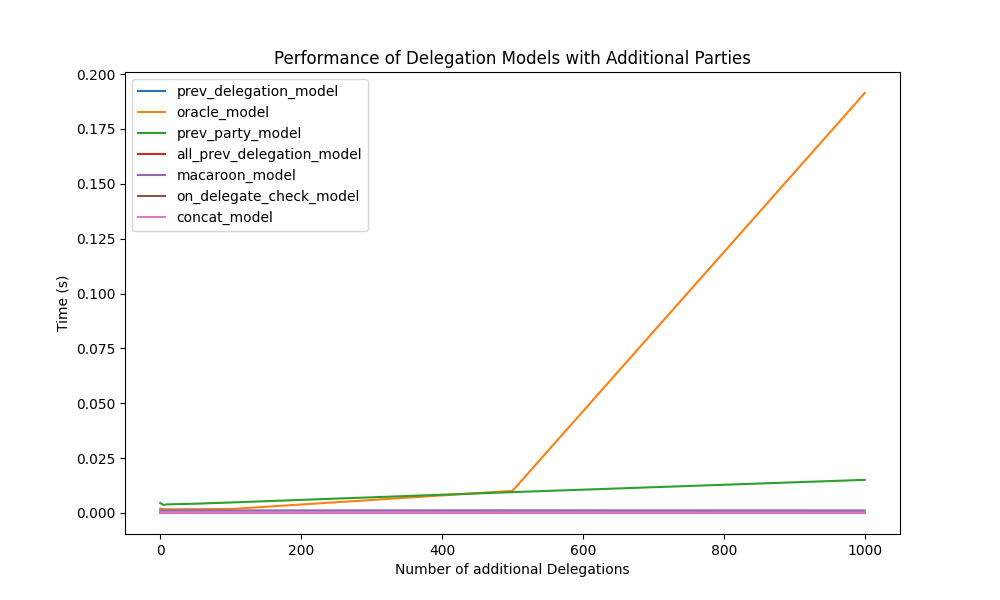
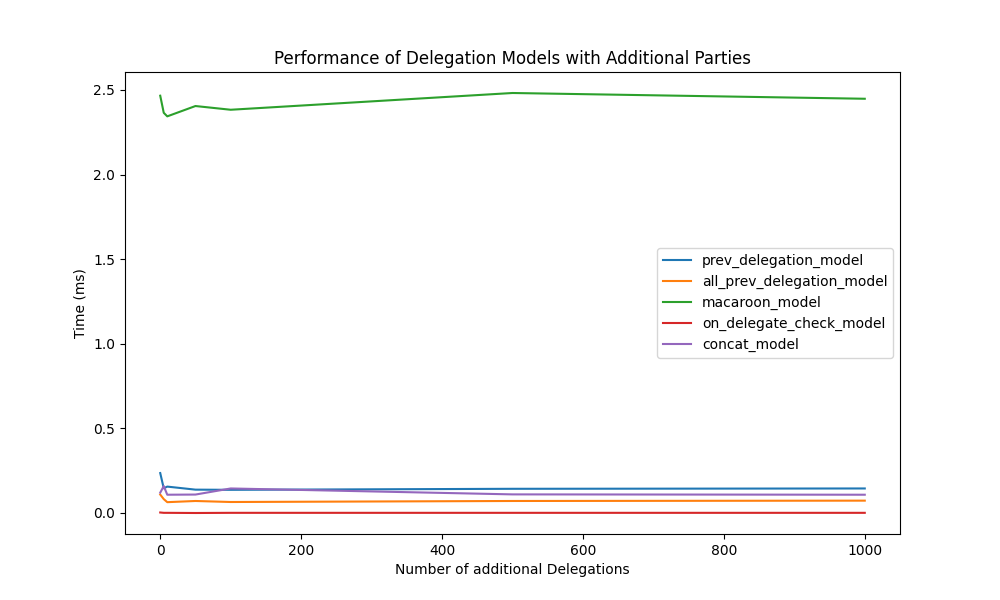
Small updates

diff --git a/src/gen_performance_plot.py b/src/gen_performance_plot.py
@@ -15,7 +15,7 @@ def load_performance(report_path):
         report = json.load(f)["performance"]
 
     keys = list(map(int, report.keys()))
-    values = list(map(float, report.values()))
+    values = list(map(lambda x: x * 1000, map(float, report.values())))
     return keys, values
 
 
@@ -24,7 +24,7 @@ def load_performance_additional_parties(report_path):
         report = json.load(f)["performance_additional_parties"]
 
     keys = list(map(int, report.keys()))
-    values = list(map(float, report.values()))
+    values = list(map(lambda x: x * 1000, map(float, report.values())))
     return keys, values
 
 
@@ -33,7 +33,7 @@ def load_performance_related_additional_parties(report_path):
         report = json.load(f)["performance_related_additional_parties"]
 
     keys = list(map(int, report.keys()))
-    values = list(map(float, report.values()))
+    values = list(map(lambda x: x * 1000, map(float, report.values())))  # convert to milliseconds
     return keys, values
 
 
@@ -73,7 +73,7 @@ if __name__ == "__main__":
     for i, (keys, values) in enumerate(scores):
         ax.plot(keys, values, label=reports[i].replace(".json", ""))
     ax.set_xlabel("Number of Delegations")
-    ax.set_ylabel("Time (s)")
+    ax.set_ylabel("Time (ms)")
     ax.set_title("Performance of Delegation Models")
     ax.legend()
     plt.savefig("reports/performance_plot.png")
@@ -83,7 +83,7 @@ if __name__ == "__main__":
     for i, (keys, values) in enumerate(scores_additional_parties):
         ax.plot(keys, values, label=reports[i].replace(".json", ""))
     ax.set_xlabel("Number of additional Delegations")
-    ax.set_ylabel("Time (s)")
+    ax.set_ylabel("Time (ms)")
     ax.set_title("Performance of Delegation Models with Additional Parties")
     ax.legend()
     plt.savefig("reports/performance_plot_additional_parties.png")
@@ -93,7 +93,7 @@ if __name__ == "__main__":
     for i, (keys, values) in enumerate(scores_related_additional_parties):
         ax.plot(keys, values, label=reports[i].replace(".json", ""))
     ax.set_xlabel("Number of related additional Delegations")
-    ax.set_ylabel("Time (s)")
+    ax.set_ylabel("Time (ms)")
     ax.set_title("Performance of Delegation Models with Related Additional Parties")
     ax.legend()
     plt.savefig("reports/performance_plot_related_additional_parties.png")

diff --git a/src/tests/main.py b/src/tests/main.py
@@ -2,9 +2,6 @@ import time
 import inspect
 import json
 
-# TODO: Remove the database parameter, and instead put this directly in the services
-# TODO: Add test for overlapping authorizations in a delegation
-
 
 class DelegationModelTests:
     def __init__(

diff --git a/rfc041/README.md b/rfc041/README.md
@@ -45,18 +45,22 @@ This model can support cross-AR validation if the delegation ID include registry
 
 **3. Concatenation model**
 This model aims to reduce lookup overhead by embedding more chain information within the delegation evidence.
-    *   **Full Concatenation:** Each new delegation contains the complete sequence of all previous delegation evidence objects. This makes validation very efficient as the entire path is self-contained. However, it significantly increases evidence size with chain length and poses privacy concerns, as every participant sees all upstream delegation details.
+    ***Full Concatenation:** Each new delegation contains the complete sequence of all previous delegation evidence objects. This makes validation very efficient as the entire path is self-contained. However, it significantly increases evidence size with chain length and poses privacy concerns, as every participant sees all upstream delegation details.
     *   **ID-only Concatenation:** To mitigate the issues of full concatenation, this variant includes only the identifiers of previous delegations (possibly prefixed with the issuing AR's ID). This still allows chain reconstruction without recursive querying but limits information exposure. Privacy is improved as only the position in the chain and identifiers are revealed, not full upstream details unless resolved.
 Both variants are compatible with multi-registry environments. The `delegation_path` attribute in the current iSHARE framework aligns with these concatenation models.
+
+**4.Macaroon model**
+This model aims to improve the chain validation time, as a macaroon can be validated with all contained information. With the first delegation the authorization registry generates a random secret key, and uses it to calculate the HMAC of the contents. From this point any further delegation simply uses this HMAC to calculate the new HMAC. Each delegation can caveats, these can constrain the access rights, but also point to external sources (e.g. check at an authorization registry that you still allow this delegation [revocation]). When the final party then presents this macaroon, the original authorization registry can validate the chain using the generated secret key, without necessarily contacting other party, unless required by external caveats. Further details can be found in [the google whitepaper](https://research.google/pubs/macaroons-cookies-with-contextual-caveats-for-decentralized-authorization-in-the-cloud/)
 
 The following table summarizes these scenarios:
 
 | Model                                           | Description                                                                                                                                                                                                         | Zero-knowledge (Shipper unaware of subcontractors?)                                   | Efficiency                                                                                                                              | Long running delegations                                                                                                                                                           |
 | -------------------------------------------------- | ------------------------------------------------------------------------------------------------------------------------------------------------------------------------------------------------------------------- | ------------------------------------------------------------------------------------- | --------------------------------------------------------------------------------------------------------------------------------------- | ---------------------------------------------------------------------------------------------------------------------------------------------------------------------------------- |
-| 1. Recursively build path - Previous Party ID      | Each delegation stores previous party's ID. AR recursively validates path. Supports parallel paths. (RFC's primary proposal, using `prev_party` from JWT).                                                          | Medium/High (Shipper unaware. Intermediates know direct delegator. AR validates full path.) | Medium (Recursive calls to AR(s); DB lookups. Optimized if within a single AR.)                                                          | Good (Flexible. Revocation of one path doesn't break alternatives. Requires checking revocation list for individual delegations.)                                                 |
-| 2. Recursively build path - Previous Delegation ID | Each delegation references ID of previous delegation evidence. AR recursively traces and validates chain.                                                                                                             | High (Similar to Previous Party ID; direct predecessor ID known.)                | Medium (Recursive calls. Each step validated, including revocation status.)                                                             | Good (Supports. Revocation list for delegation IDs needed. Revocation of a link propagates to further links)                                                                     |
-| 3. Concatenation model (Full Evidence)             | Each delegation contains the complete sequence of previous delegation evidence. (`previous_steps` attribute mentioned before)                                                                                                | Low/medium (Entire chain information exposed to participants holding the evidence, though information may be limited.)              | Very High (Local validation once evidence obtained.)                                                                                    | Medium (Revocation complex; if one link revoked, entire concatenated evidence potentially invalid unless re-issued or segments checkable.)                                    |
-| 4. Concatenation model (ID-only)                   | Each delegation includes identifiers of previous delegations. (`delegation_path` attribute in iSHARE)                                                                                                                 | Medium (Position in chain and IDs known; details not exposed without resolution.)     | High (Chain structure present. Validation efficient but may need to check revocation status of all IDs.)                                | Medium (Similar to Full Concatenation. Revocation of one ID invalidates chain. Requires checking revocation list for all IDs.)                                                   |
+| 1. Recursively build path - Previous Party ID      | Each delegation stores previous party's ID. AR recursively validates path. Supports parallel paths.                                                          | Medium, shipper unaware except its direct successor, intermediates know direct delegator. AR validates full path. | Medium, Recursive calls to AR(s); DB lookups. Optimized if within a single AR.                                                          | High, very flexible, and revocation of one path doesn't break alternatives. Requires checking revocation list for individual delegations.                                                 |
+| 2. Recursively build path - Previous Delegation ID | Each delegation references ID of previous delegation evidence. AR recursively traces and validates chain.                                                                                                             | High, similar to Previous Party ID; direct predecessor ID known.                | Medium, recursive calls. Each step validated, including revocation status.                                                             | High, supports revocation lists, and revocation of a link propagates to further links                                                                     |
+| 3. Concatenation model (Full Evidence)             | Each delegation contains the complete sequence of previous delegation evidence. (`previous_steps` attribute mentioned before)                                                                                                | High, entire chain information exposed to participants holding the evidence.              | Very High, local validation once evidence obtained.                                                                                    | Medium, revocation complex; if one link revoked, entire concatenated evidence potentially invalid unless re-issued or segments checkable.                                    |
+| 4. Concatenation model (ID-only)                   | Each delegation includes identifiers of previous delegations. (`delegation_path` attribute in iSHARE)                                                                                                                 | Medium, position in chain and IDs known; details not exposed without resolution.     | Medium, chain structure present. Validation efficient but may need to check revocation status of all IDs.                                | Medium, similar to Full Concatenation. Revocation of one ID invalidates chain. Requires checking revocation list for all IDs.                                                   |
+| 5. Macaroon model | A macaroon is constructed at the start, and extended with caveats for further delegations | Low, the only required information is on access constraints, unless a third party caveat reveals extra. | High, as the macaroon is mostly self-contained | Good, external caveats can be used to support revocation propagation. |
 
 ### Example use cases
 
@@ -78,6 +82,8 @@ The following table lists the impact of this RFC on the formal iSHARE roles (exc
 | Satellite                 | maybe             | maybe                                              |
 
 The table above describes the impact on different roles, it is possible however based on the details that an impact can be created on other roles as well. E.g. to support multiple authorization registries in a delegation chain, the id of the authorization registry can be added the evidence, or it can be queried from a satellite [creating an impact on the satellite].
+
+It should be noted that the impact of the macaroon model is bigger than that of the other models, and that implementation details might find an impact on other roles than marked here.
 
 ## Impact iSHARE Foundation (Scheme Owner)
 
